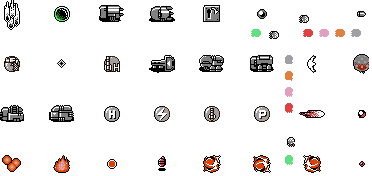
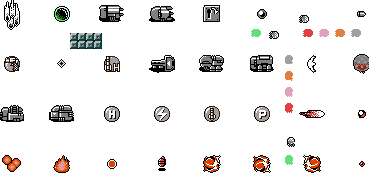
update brick breaker done

Changed region(s): [[0.1774, 0.1705, 0.2957, 0.2841]]

diff --git a/Game/PlayScene.cpp b/Game/PlayScene.cpp
@@ -19,6 +19,7 @@
 #define OBJECT_TYPE_FLOATERS			14
 #define OBJECT_TYPE_INSECT				15
 #define OBJECT_TYPE_LAVA_BRICK			16
+#define OBJECT_TYPE_BREAKER_BRICK		17
 
 
 #define DX_GET_OUT_CAR		7
@@ -40,7 +41,7 @@ PlayScene::PlayScene() : Scene()
 	keyHandler = new PlayScenceKeyHandler(this);
 	typeSophia = 1;
 	LoadBaseObjects();
-	ChooseMap(STAGE_1*3);
+	ChooseMap(STAGE_1*2);
 }
 
 void PlayScene::LoadBaseObjects()
@@ -174,6 +175,8 @@ void PlayScene::GetObjectFromGrid()
 		if (dynamic_cast<Insect*>(listObjectLoad[i]))
 			listEnemies.push_back(listObjectLoad[i]);
 		if (dynamic_cast<LavaBrick*>(listObjectLoad[i]))
+			listEnemies.push_back(listObjectLoad[i]);
+		if (dynamic_cast<BrickBreaker*>(listObjectLoad[i]))
 			listEnemies.push_back(listObjectLoad[i]);
 	}
 }
@@ -374,6 +377,7 @@ void PlayScenceKeyHandler::OnKeyDown(int KeyCode)
 	PlayScene* playScene = dynamic_cast<PlayScene*>(scence);
 	vector<LPGAMEENTITY> listObjects = ((PlayScene*)scence)->listObjects;
 	vector<LPGAMEENTITY> listEnemies = ((PlayScene*)scence)->listEnemies;
+	vector<LPGAMEENTITY> listGates = ((PlayScene*)scence)->listGates;
 	vector<LPGAMEITEM> listItems = ((PlayScene*)scence)->listItems;
 	vector<LPBULLET> listBullets = ((PlayScene*)scence)->listBullets;
 	float x, y;
@@ -484,75 +488,70 @@ void PlayScenceKeyHandler::OnKeyDown(int KeyCode)
 	case DIK_F6:
 		for (int i = 0; i < listObjects.size(); i++)
 		{
-			if (listObjects[i]->GetBBARGB() == 0)
-				listObjects[i]->SetBBARGB(200);
-			else
-				listObjects[i]->SetBBARGB(0);
+			listObjects[i]->SetBBARGB(200);
+		}
+		for (int i = 0; i < listGates.size(); i++)
+		{
+			listGates[i]->SetBBARGB(200);
 		}
 		for (int i = 0; i < listItems.size(); i++)
 		{
-			if (listItems[i]->GetBBARGB() == 0)
-				listItems[i]->SetBBARGB(200);
-			else
-				listItems[i]->SetBBARGB(0);
+			listItems[i]->SetBBARGB(200);
 		}
 		for (int i = 0; i < listEnemies.size(); i++)
 		{
-			if (listEnemies[i]->GetBBARGB() == 0)
-				listEnemies[i]->SetBBARGB(200);
-			else
-				listEnemies[i]->SetBBARGB(0);
+			listEnemies[i]->SetBBARGB(200);
 		}
 		for (int i = 0; i < playScene->listBigBullets.size(); i++)
 		{
-			if (playScene->listBigBullets[i]->GetBBARGB() == 0)
-				playScene->listBigBullets[i]->SetBBARGB(200);
-			else
-				playScene->listBigBullets[i]->SetBBARGB(0);
+			playScene->listBigBullets[i]->SetBBARGB(200);
 		}
 		for (int i = 0; i < playScene->listGates.size(); i++)
 		{
-			if (playScene->listGates[i]->GetBBARGB() == 0)
-				playScene->listGates[i]->SetBBARGB(200);
-			else
-				playScene->listGates[i]->SetBBARGB(0);
+			playScene->listGates[i]->SetBBARGB(200);
 		}
 
+		player->SetBBARGB(200);
+		playerV2->SetBBARGB(200);
+		sophia->SetBBARGB(200);
+		bullet1->SetBBARGB(200);
+		bullet2->SetBBARGB(200);
+		bullet3->SetBBARGB(200);
+		supBullet->SetBBARGB(200);
+		break;
+	case DIK_F7:
+		for (int i = 0; i < listObjects.size(); i++)
+		{
+			listObjects[i]->SetBBARGB(0);
+		}
+		for (int i = 0; i < listGates.size(); i++)
+		{
+			listGates[i]->SetBBARGB(0);
+		}
+		for (int i = 0; i < listItems.size(); i++)
+		{
+			listItems[i]->SetBBARGB(0);
+		}
+		for (int i = 0; i < listEnemies.size(); i++)
+		{
+			listEnemies[i]->SetBBARGB(0);
+		}
+		for (int i = 0; i < playScene->listBigBullets.size(); i++)
+		{
+			playScene->listBigBullets[i]->SetBBARGB(0);
+		}
+		for (int i = 0; i < playScene->listGates.size(); i++)
+		{
+			playScene->listGates[i]->SetBBARGB(0);
+		}
 
-		if (player->GetBBARGB() == 0)
-			player->SetBBARGB(200);
-		else
-			player->SetBBARGB(0);
-
-		if (playerV2->GetBBARGB() == 0)
-			playerV2->SetBBARGB(200);
-		else
-			playerV2->SetBBARGB(0);
-
-		if (sophia->GetBBARGB() == 0)
-			sophia->SetBBARGB(200);
-		else
-			sophia->SetBBARGB(0);
-
-		if (bullet1->GetBBARGB() == 0)
-			bullet1->SetBBARGB(200);
-		else
-			bullet1->SetBBARGB(0);
-
-		if (bullet2->GetBBARGB() == 0)
-			bullet2->SetBBARGB(200);
-		else
-			bullet2->SetBBARGB(0);
-
-		if (bullet3->GetBBARGB() == 0)
-			bullet3->SetBBARGB(200);
-		else
-			bullet3->SetBBARGB(0);
-
-		if (supBullet->GetBBARGB() == 0)
-			supBullet->SetBBARGB(200);
-		else
-			supBullet->SetBBARGB(0);
+		player->SetBBARGB(0);
+		playerV2->SetBBARGB(0);
+		sophia->SetBBARGB(0);
+		bullet1->SetBBARGB(0);
+		bullet2->SetBBARGB(0);
+		bullet3->SetBBARGB(0);
+		supBullet->SetBBARGB(0);
 		break;
 #pragma endregion
 	}
@@ -978,7 +977,19 @@ void PlayScene::_ParseSection_OBJECTS(string line)
 		obj->SetAnimationSet(ani_set);
 		//listEnemies.push_back(obj);
 		totalObjectsIntoGrid.push_back(obj);
-		DebugOut(L"[test] add Insect %d !\n", (int)(x / (SCREEN_WIDTH / 2)));;
+		DebugOut(L"[test] add Lava Brick %d !\n", (int)(x / (SCREEN_WIDTH / 2)));;
+		break;
+	}
+	case OBJECT_TYPE_BREAKER_BRICK:
+	{
+		obj = new BrickBreaker();
+		obj->SetPosition(x, y);
+		LPANIMATION_SET ani_set = animation_sets->Get(ani_set_id);
+
+		obj->SetAnimationSet(ani_set);
+		//listEnemies.push_back(obj);
+		totalObjectsIntoGrid.push_back(obj);
+		DebugOut(L"[test] add Breaker Brick %d !\n", (int)(x / (SCREEN_WIDTH / 2)));;
 		break;
 	}
 	default:

diff --git a/Game/BrickBreaker.cpp b/Game/BrickBreaker.cpp
@@ -1,0 +1,64 @@
+#include "BrickBreaker.h"
+
+void BrickBreaker::Render()
+{
+	int ani;
+	if (isDeath)
+		return;
+	if (health <= 0)
+	{
+		ani = 1;
+		animationSet->at(ani)->Render(1, x+7, y);
+		//DebugOut(L"dsadasdasd %d ", animationSet->at(ani)->GetFrame());
+		if (animationSet->at(ani)->GetFrame() == 3)
+			isDeath = true;
+	}
+	else
+	{
+		ani = 0;
+		animationSet->at(ani)->Render(1, x, y);
+	}
+	RenderBoundingBox();
+}
+
+void BrickBreaker::Update(DWORD dt, vector<LPGAMEENTITY>* objects)
+{
+}
+
+void BrickBreaker::Activation()
+{
+}
+
+void BrickBreaker::GetCenterBoundingBox(float& x, float& y)
+{
+}
+
+float BrickBreaker::GetDistance(D3DXVECTOR2 pos, D3DXVECTOR2 target)
+{
+	return 1;
+}
+
+
+bool BrickBreaker::IsContain(RECT rect1, RECT rect2)
+{
+	return 0;
+}
+
+void BrickBreaker::GetBoundingBox(float& l, float& t, float& r, float& b)
+{
+	if (!isDeath)
+	{
+		l = x;
+		t = y;
+		r = x + frameW;
+		b = y + frameH;
+	}
+}
+
+BrickBreaker::BrickBreaker()
+{
+	health = 1;
+	tag = EntityType::ENEMY;
+	this->frameH = BRICK_BBOX_HEIGHT;
+	this->frameW = BRICK_BBOX_WIDTH;
+}

diff --git a/Game/BrickBreaker.h b/Game/BrickBreaker.h
@@ -1,0 +1,20 @@
+#pragma once
+#include "Enemy.h"
+
+#define BRICK_BBOX_WIDTH  32
+#define BRICK_BBOX_HEIGHT 16
+
+class BrickBreaker : public Enemy
+{
+public:
+	int frameH, frameW;
+	virtual void Render();
+	virtual void Update(DWORD dt, vector<LPGAMEENTITY>* objects = NULL);
+	virtual void GetBoundingBox(float& l, float& t, float& r, float& b);
+	virtual void Activation();
+	virtual bool IsContain(RECT rect1, RECT rect2);
+	virtual float GetDistance(D3DXVECTOR2 pos, D3DXVECTOR2 target);
+	virtual void GetCenterBoundingBox(float& x, float& y);
+	BrickBreaker();
+	~BrickBreaker();
+};

diff --git a/Game/PlayScene.h b/Game/PlayScene.h
@@ -25,6 +25,7 @@
 #include "Floaters.h"
 #include "Insect.h"
 #include "LavaBrick.h"
+#include "BrickBreaker.h"
 
 #include "MainJasonBullet.h"
 #include "ElectricBullet.h"
